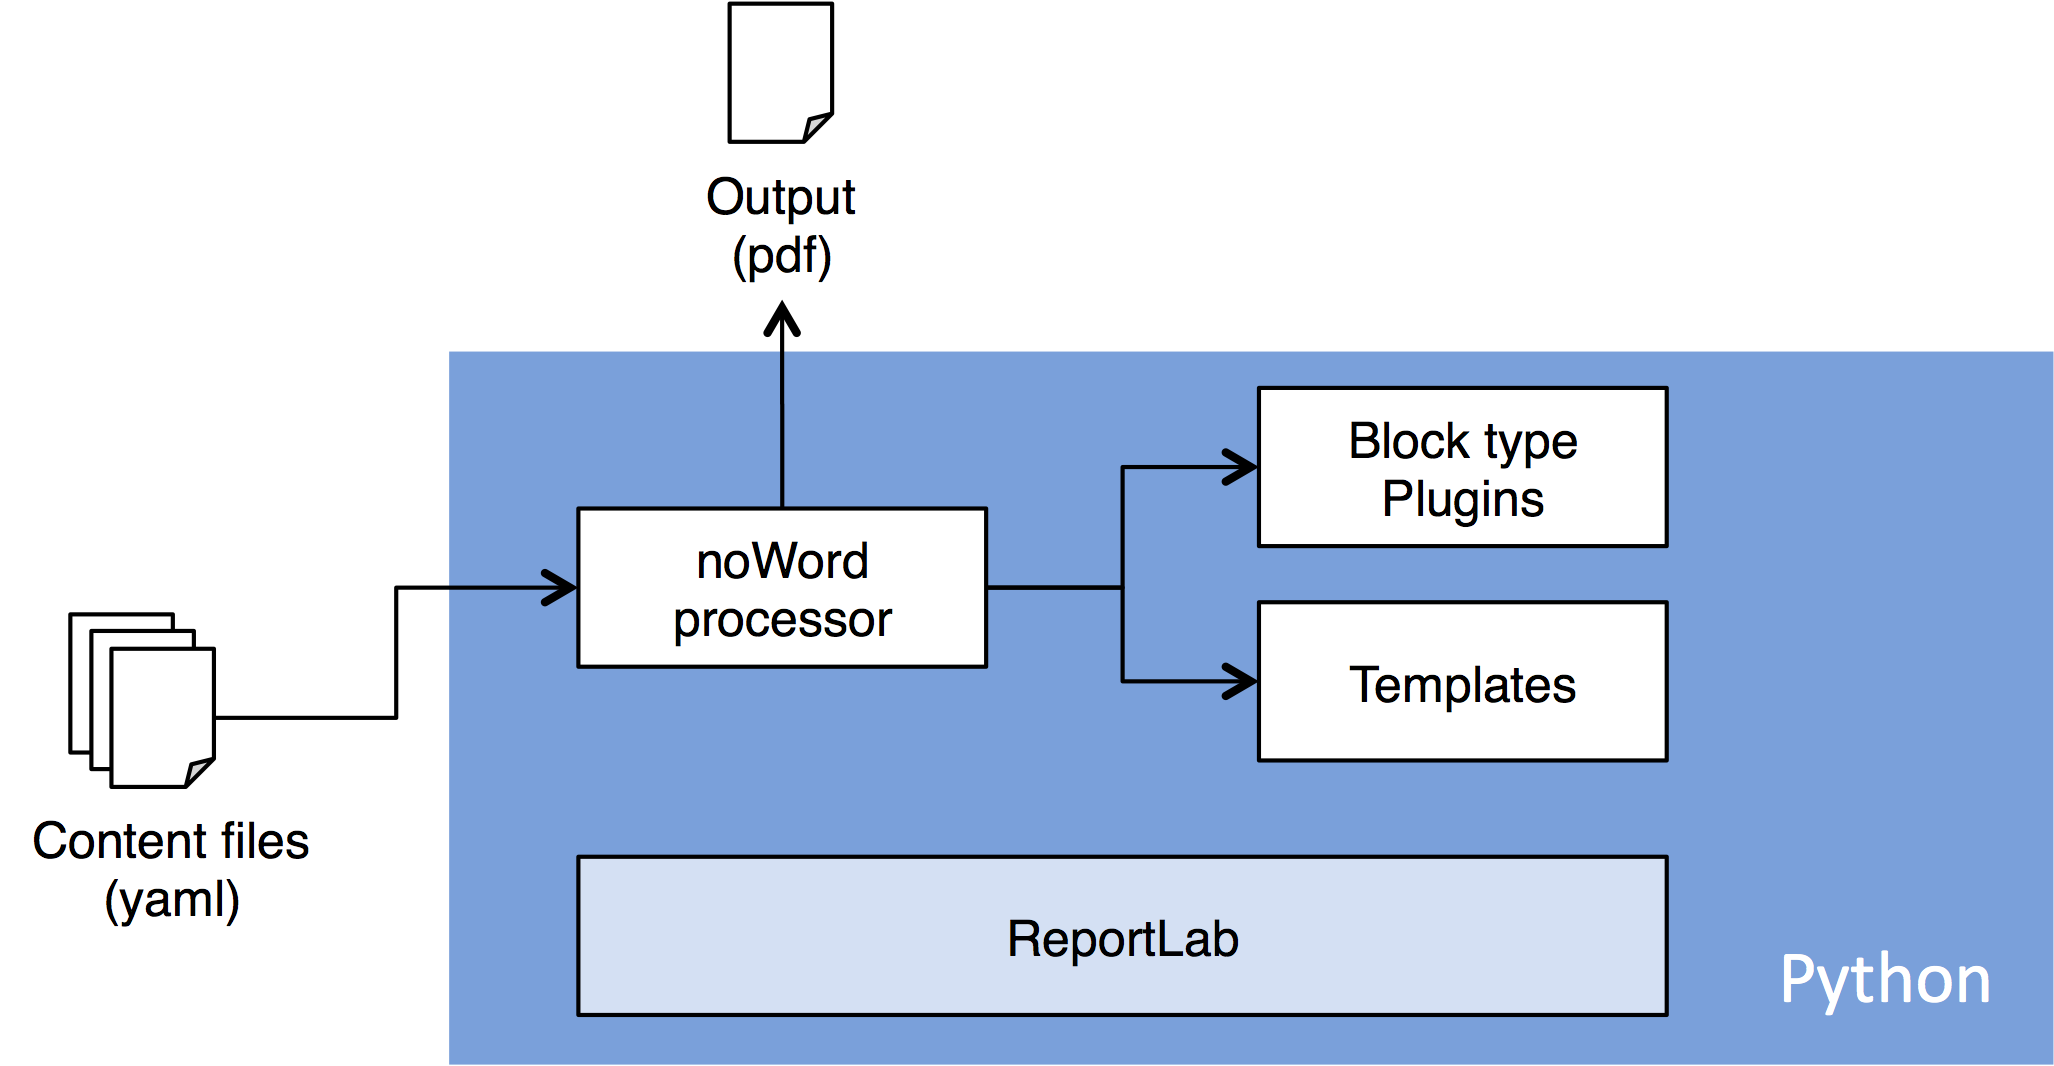
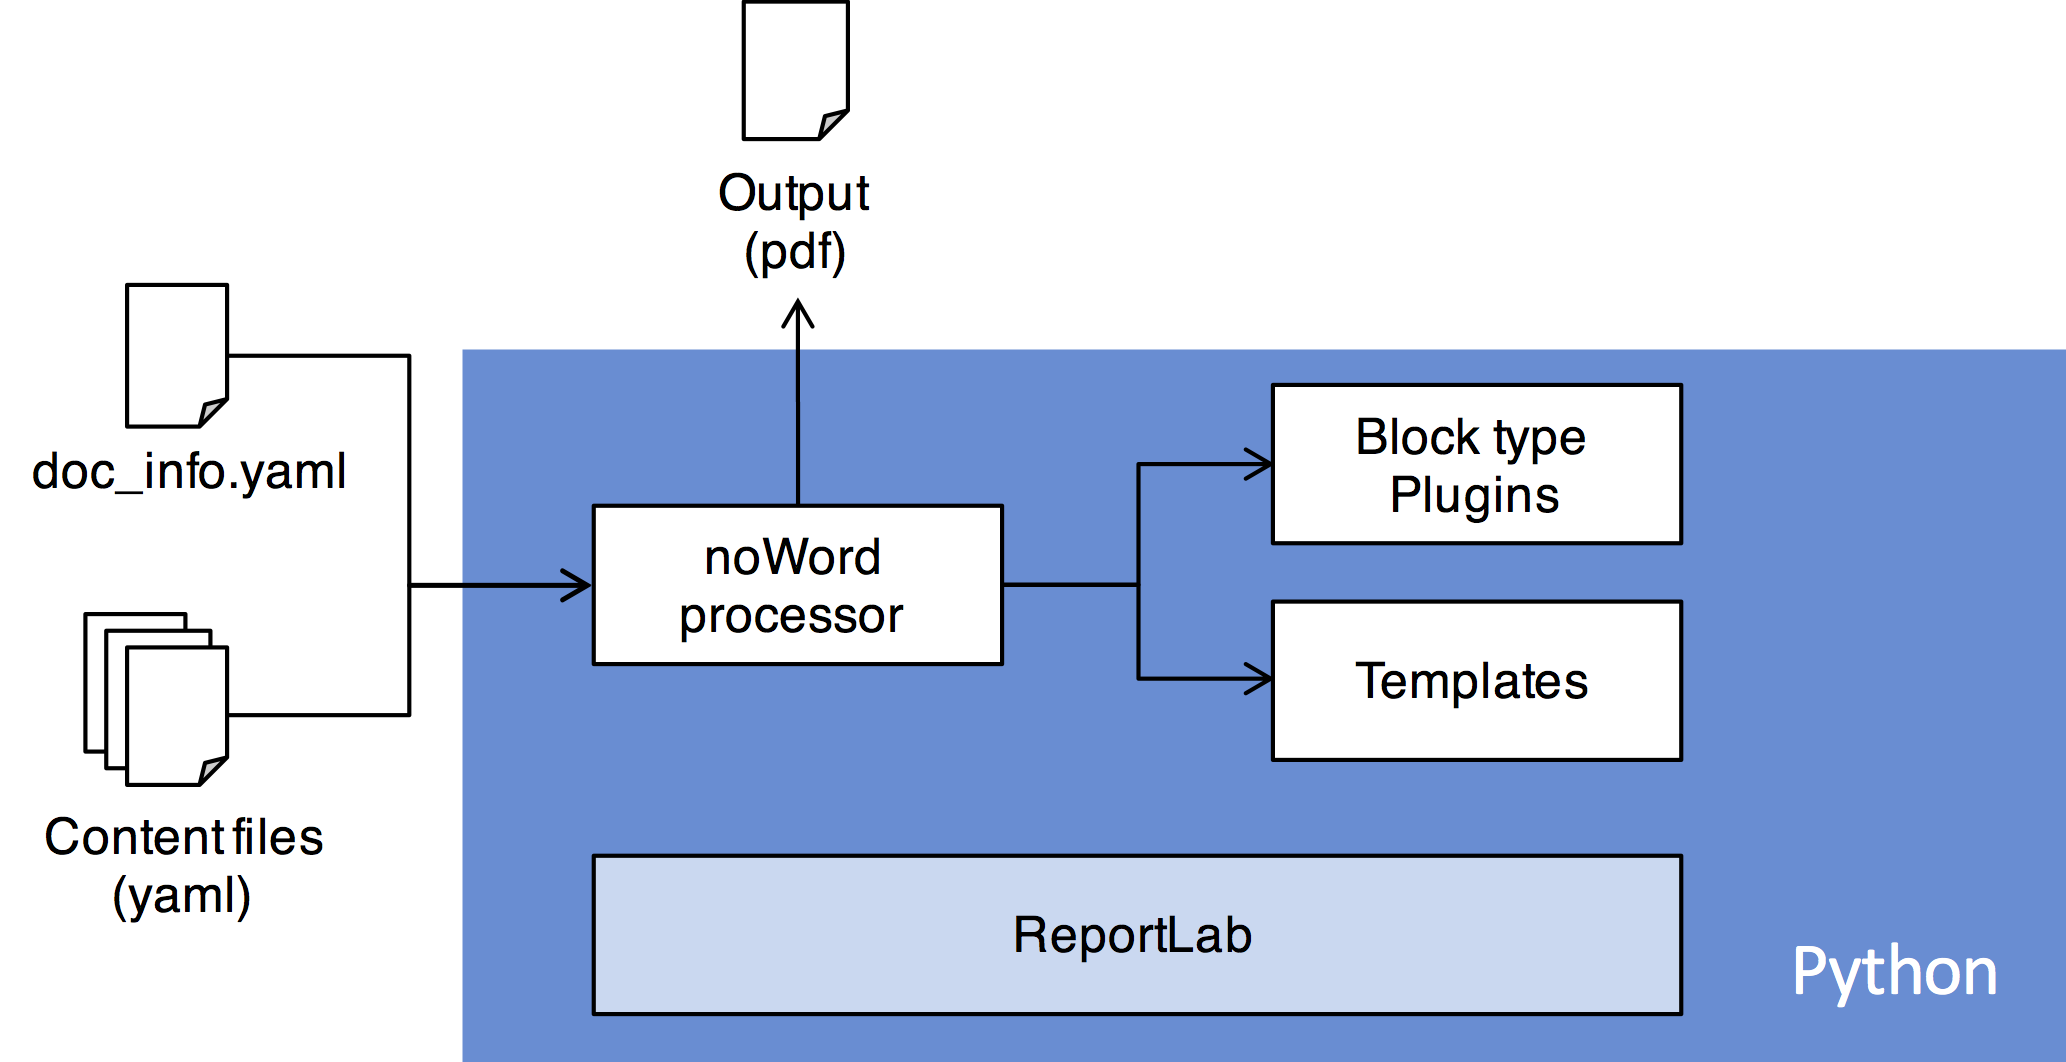
Add doc for doc_info.yaml

diff --git a/README.md b/README.md
@@ -15,7 +15,10 @@ makes it very convinent for software developers.
 
 The following illustration outlines the main components of the noWord system.
 
-<img src="/images/overview.png" width="600" />
+<img src="./images/overview.png" width="600" />
+
+## doc_info.yaml
+
 
 ## Content files
 As content file format we chose YAML over json for it's multiline support.
